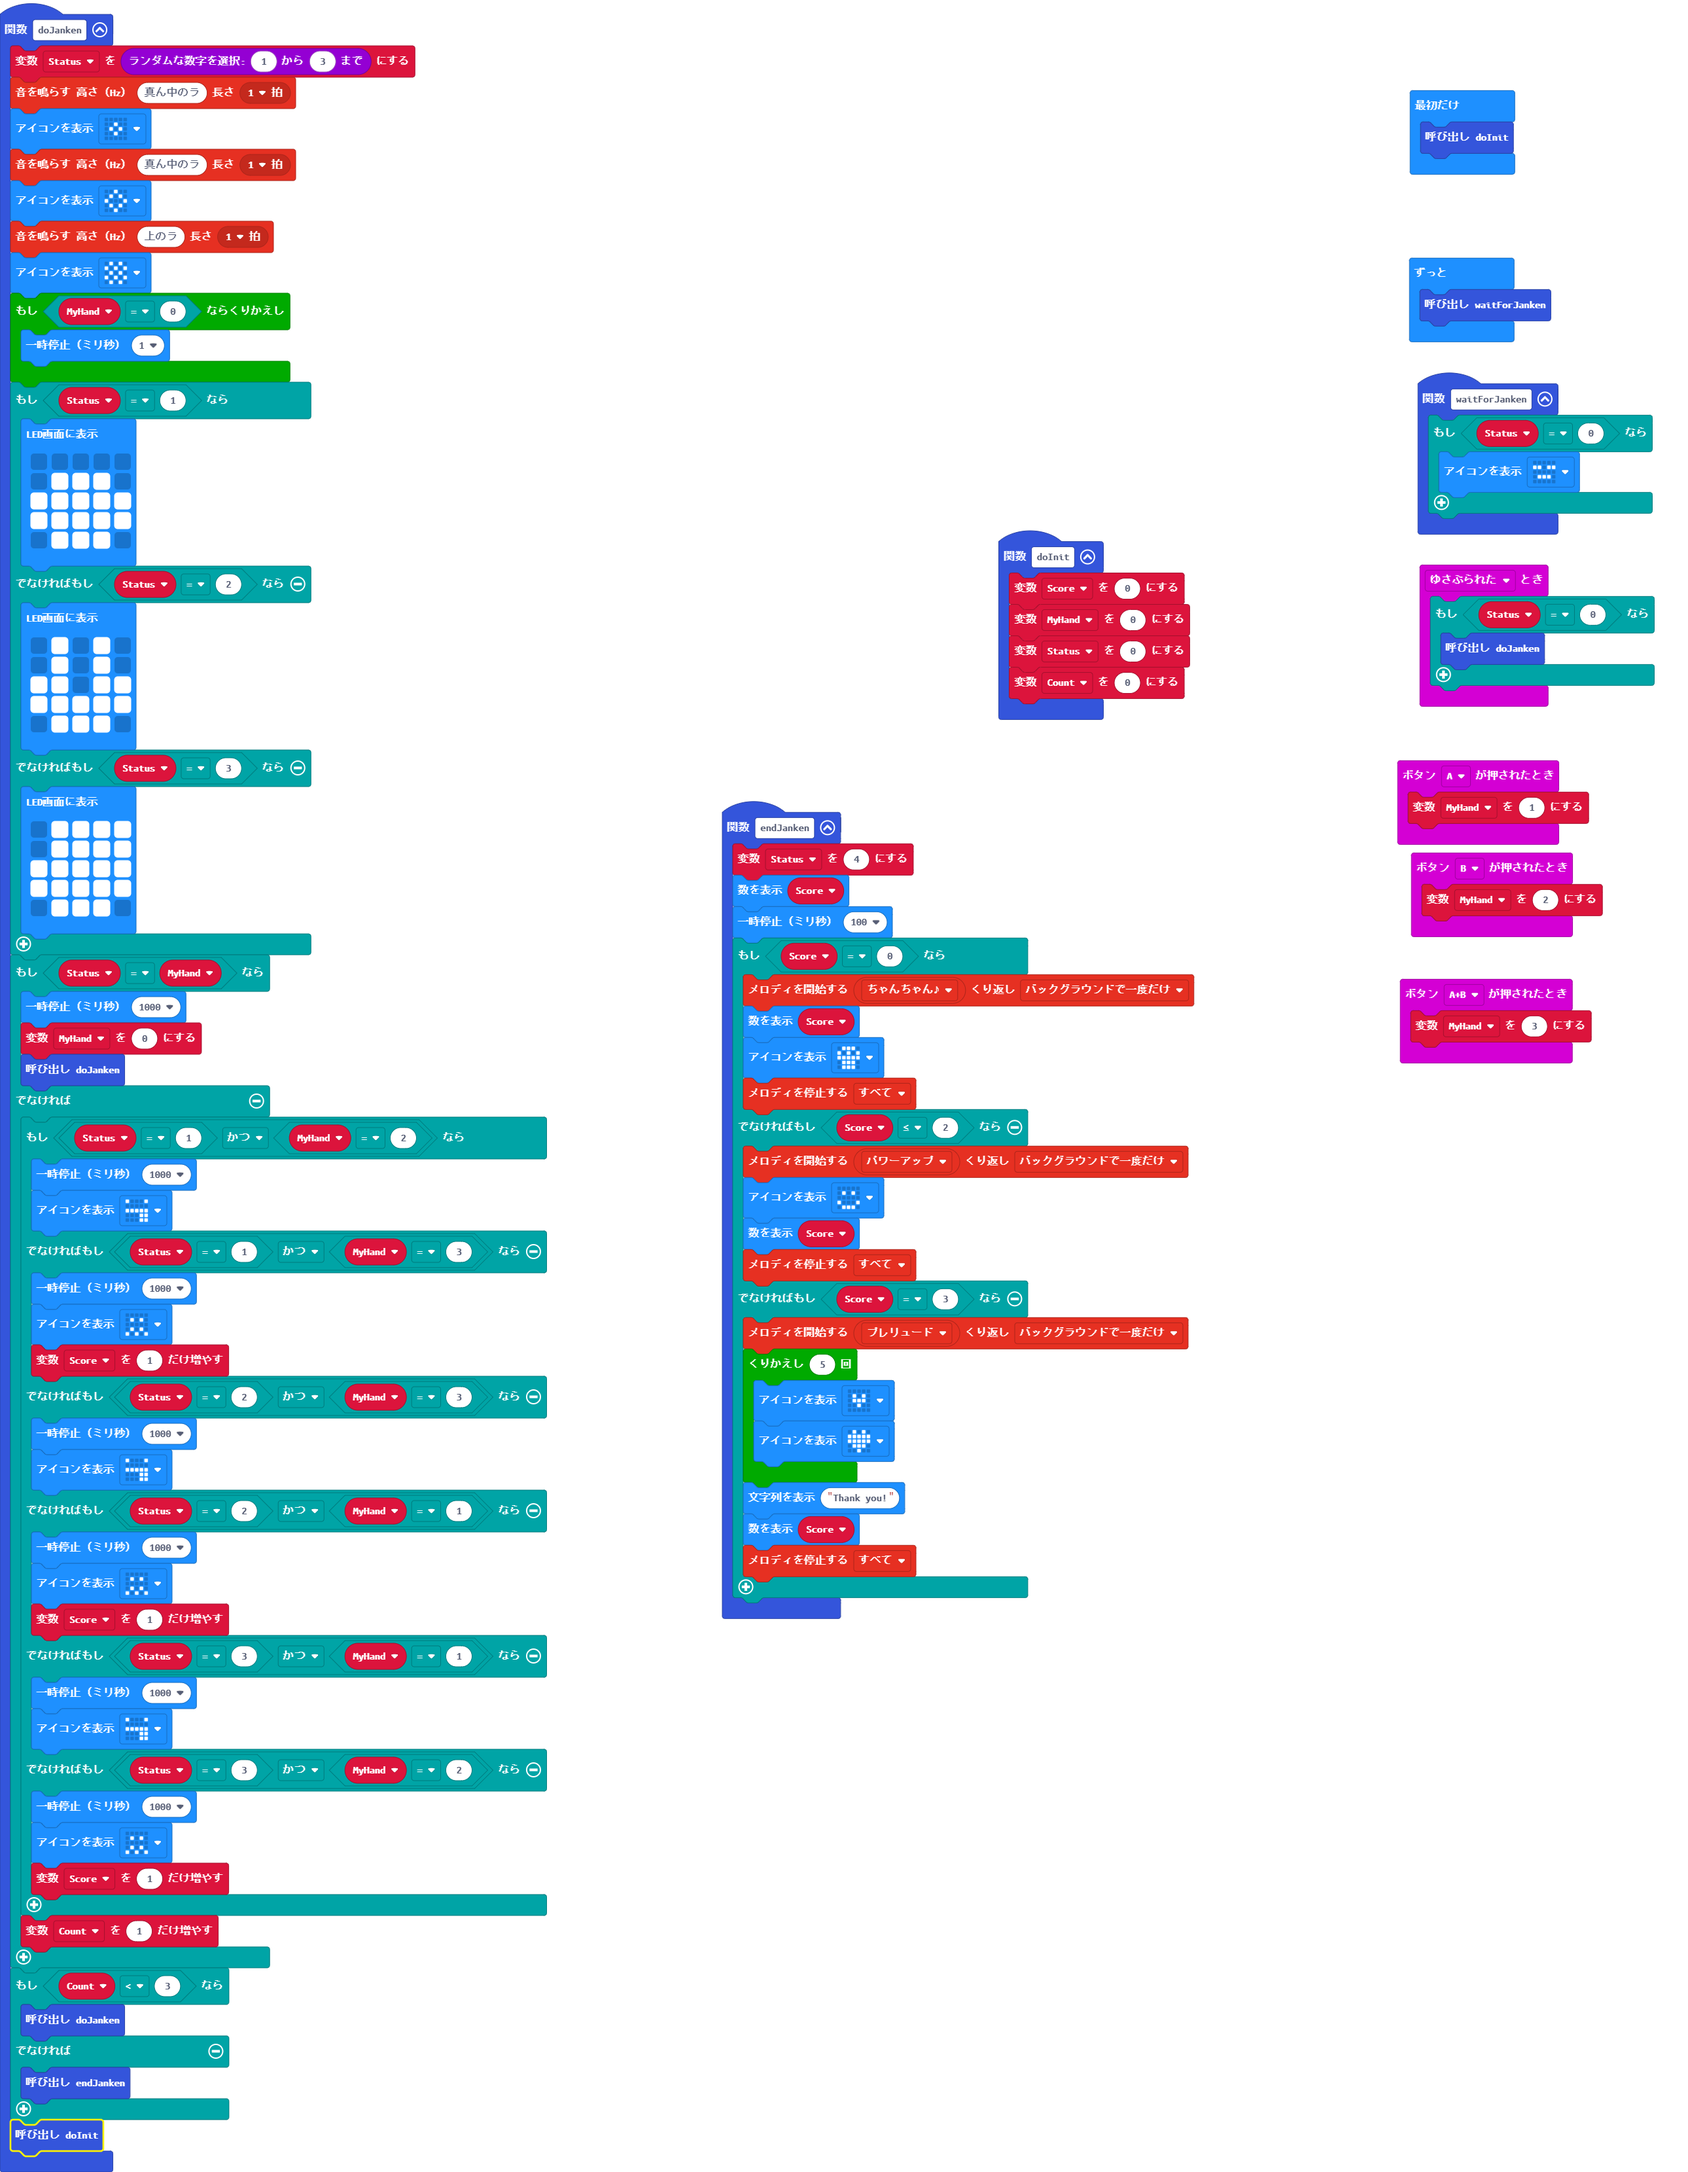
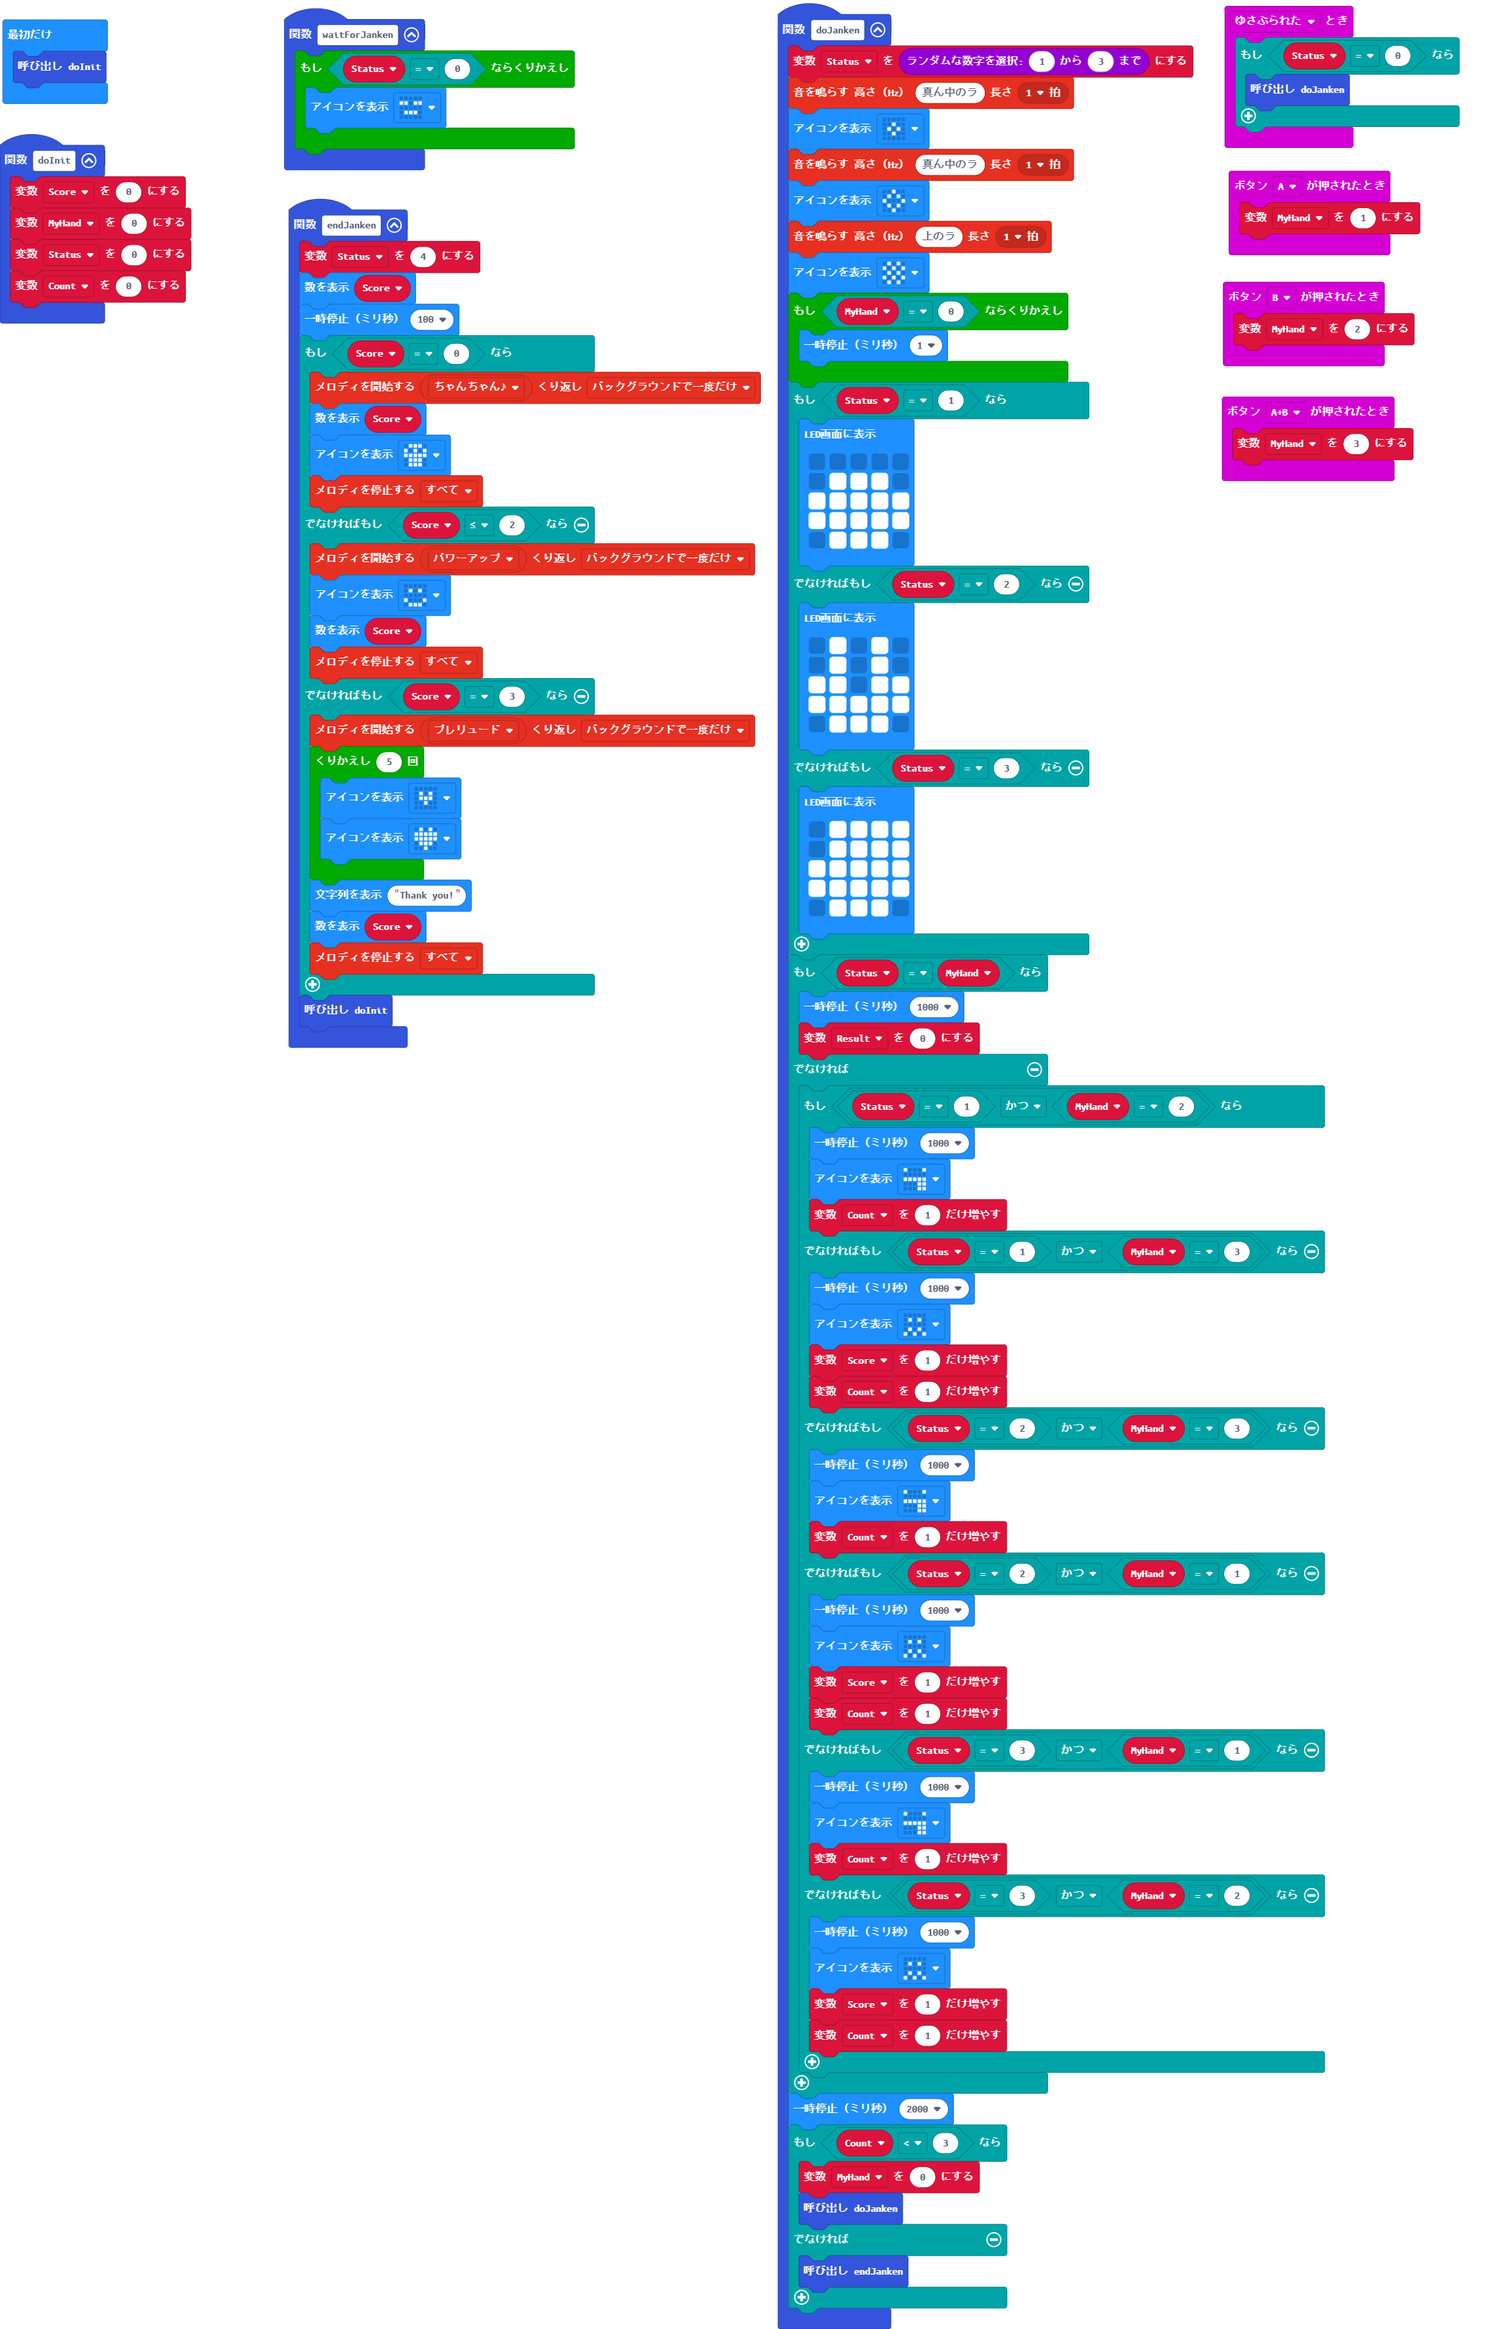
Update main.blocks, main.ts

diff --git a/main.ts b/main.ts
@@ -28,6 +28,7 @@ function endJanken () {
         basic.showNumber(Score)
         music.stopMelody(MelodyStopOptions.All)
     }
+    doInit()
 }
 function doJanken () {
     Status = randint(1, 3)
@@ -67,39 +68,44 @@ function doJanken () {
     }
     if (Status == MyHand) {
         basic.pause(1000)
-        MyHand = 0
-        doJanken()
+        Result = 0
     } else {
         if (Status == 1 && MyHand == 2) {
             basic.pause(1000)
             basic.showIcon(IconNames.Silly)
+            Count += 1
         } else if (Status == 1 && MyHand == 3) {
             basic.pause(1000)
             basic.showIcon(IconNames.Confused)
             Score += 1
+            Count += 1
         } else if (Status == 2 && MyHand == 3) {
             basic.pause(1000)
             basic.showIcon(IconNames.Silly)
+            Count += 1
         } else if (Status == 2 && MyHand == 1) {
             basic.pause(1000)
             basic.showIcon(IconNames.Confused)
             Score += 1
+            Count += 1
         } else if (Status == 3 && MyHand == 1) {
             basic.pause(1000)
             basic.showIcon(IconNames.Silly)
+            Count += 1
         } else if (Status == 3 && MyHand == 2) {
             basic.pause(1000)
             basic.showIcon(IconNames.Confused)
             Score += 1
+            Count += 1
         }
-        Count += 1
     }
+    basic.pause(2000)
     if (Count < 3) {
+        MyHand = 0
         doJanken()
     } else {
         endJanken()
     }
-    doInit()
 }
 input.onButtonPressed(Button.A, function () {
     MyHand = 1
@@ -110,7 +116,7 @@ input.onGesture(Gesture.Shake, function () {
     }
 })
 function waitForJanken () {
-    if (Status == 0) {
+    while (Status == 0) {
         basic.showIcon(IconNames.Asleep)
     }
 }
@@ -120,11 +126,9 @@ input.onButtonPressed(Button.AB, function () {
 input.onButtonPressed(Button.B, function () {
     MyHand = 2
 })
+let Result = 0
 let Count = 0
 let Status = 0
 let MyHand = 0
 let Score = 0
 doInit()
-basic.forever(function () {
-    waitForJanken()
-})
